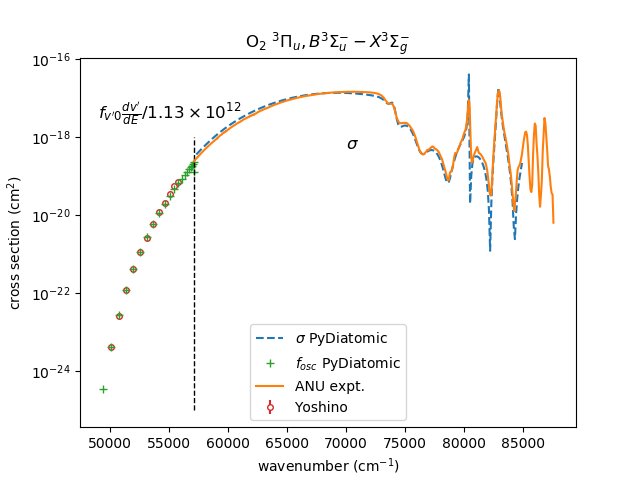
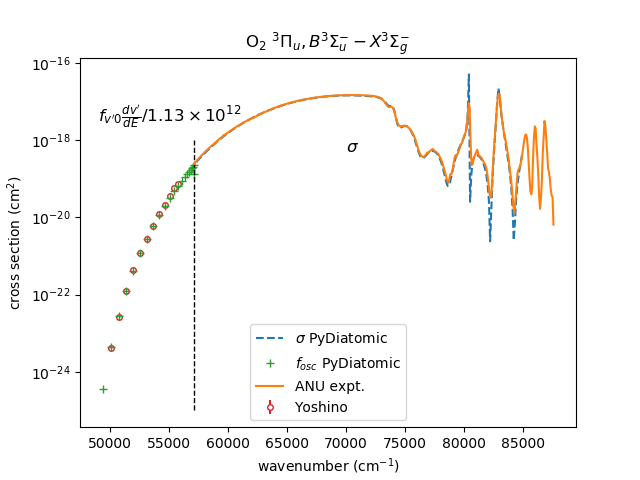
bugfix correct O2_continuity offset

diff --git a/cse/cse_setup.py b/cse/cse_setup.py
@@ -15,6 +15,8 @@ def reduced_mass(amu=None):
     Returns
     -------
     μ : reduced mass in kg
+    molecule : str
+        molecule label
 
     """
 
@@ -140,10 +142,8 @@ def potential_energy_curves(pecfs=None, R=None):
                 AM.append((0, 0, 0, 0))
 
         else:
-            radialcoord, potential = fn  # VT=[(R, V), ...] as tuples
+            radialcoord, potential = fn
             AM.append((0, 0, 0, 0))
-            pecfs = ['']
-            
         Rin.append(radialcoord)
         Vin.append(potential)
         
@@ -163,8 +163,7 @@ def potential_energy_curves(pecfs=None, R=None):
     # curve to be extrapolated
     if R is None:
         dR = Rin[0][-1] - Rin[0][-2]
-        # cannot change size indpendent of V - removed next line 23/5/18
-        # dR = round(dR, 1-int(np.floor(np.log10(dR)))-1)
+        dR = round(dR, 1-int(np.floor(np.log10(dR)))-1)
         R = np.arange(Rm, Rx+dR/2, dR)
 
     oo = len(R)
@@ -198,7 +197,7 @@ def coupling_function(R, VT, μ, pecfs, coup=None):
         list potential curve couplings (in cm-1) 
     
     """
-    # hbar^2/2 μ in eV (once /R^2)
+    # hbar^2/2μ in eV (once /R^2)
     centrifugal_factor = (const.hbar*1.0e20/μ/2/const.e)*const.hbar
     n, m, oo = VT.shape
 
@@ -211,9 +210,8 @@ def coupling_function(R, VT, μ, pecfs, coup=None):
         for k in range(j+1,n):
             if coup == None:
                 couplestr = input(
-                 f'CSE: coupling {pecfs[j]:s} <-> {pecfs[k]:s} cm-1 [0]? ')
+                     f'CSE: coupling {pecfs[j]:s} <-> {pecfs[k]:s} cm-1 [0]? ')
                 couple = float(couplestr) if len(couplestr) > 1 else 0.0
-
             elif isinstance(coup[cnt], tuple):
                 # fix me! - should interpolate coupling function
                 Rdummy, couple = coup[cnt]
@@ -249,9 +247,8 @@ def load_dipolemoment(dipolemoment=None, R=None, pec_gs=None, pec_us=None):
             if dipolemoment is not None and len(dipolemoment) > i:
                 fn = dipolemoment[i]
             else:
-                fn = input(
-                f'CSE: dipolemoment filename or value {pec_us[u]} <-'
-                f' {pec_gs[g]} : ')
+                fn = input("CSE: dipolemoment filename or value "
+                           "{pec_us[u]} <- {pec_gs[g]} : ")
 
             if is_number(fn):
                 dipole[u][g] = float(fn)             
